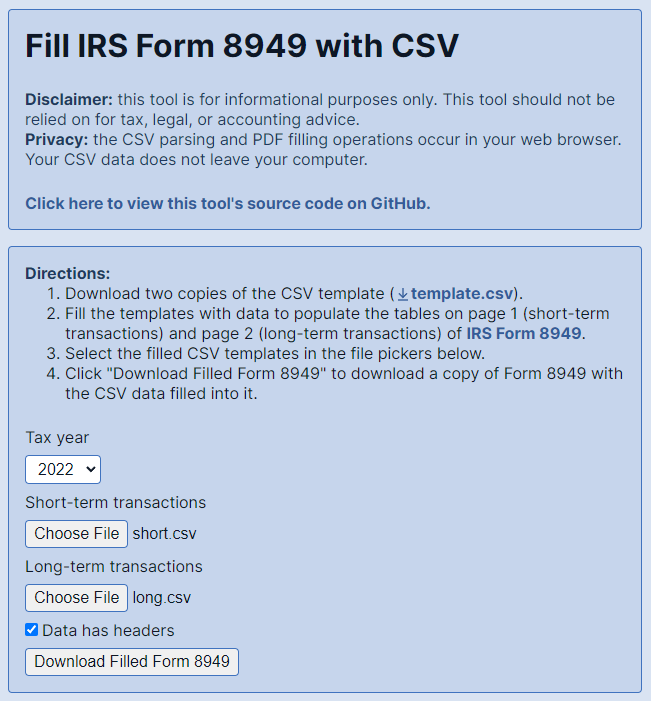
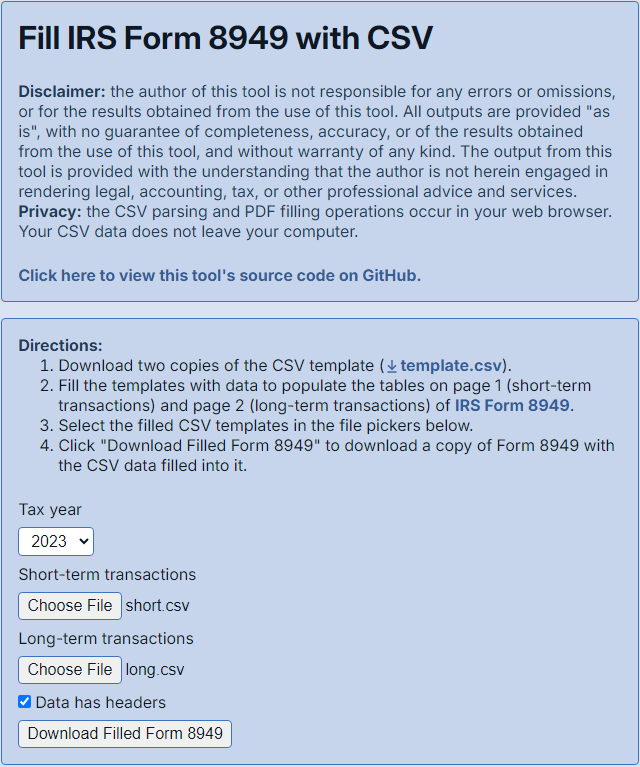
Update disclaimer

Changed region(s): [[0.0, 0.0, 1.0, 1.0], [0.9688, 0.2996, 1.0, 0.3295], [0.9688, 0.0, 1.0, 0.03]]

diff --git a/index.html b/index.html
@@ -180,7 +180,7 @@
 <body>
   <section class="info card">
     <h1>Fill IRS Form 8949 with CSV</h1>
-    <p class="disclaimer"><b>Disclaimer:</b> this tool is for informational purposes only. This tool should not be relied on for tax, legal, or accounting advice.</p>
+    <p class="disclaimer"><b>Disclaimer:</b> the author of this tool is not responsible for any errors or omissions, or for the results obtained from the use of this tool. All outputs are provided "as is", with no guarantee of completeness, accuracy, or of the results obtained from the use of this tool, and without warranty of any kind. The output from this tool is provided with the understanding that the author is not herein engaged in rendering legal, accounting, tax, or other professional advice and services.</p>
     <p class="privacy"><b>Privacy:</b> the CSV parsing and PDF filling operations occur in your web browser. Your CSV data does not leave your computer.</p>
     <p class="source"><a href="https://github.com/ardislu/fill-8949-with-csv">Click here to view this tool's source code on GitHub.</a></p>
   </section>

diff --git a/README.md b/README.md
@@ -1,7 +1,7 @@
 # fill-8949-with-csv
 
 > [!IMPORTANT]<br>
-> This tool is for informational purposes only. This tool should not be relied on for tax, legal, or accounting advice.
+> The author of this tool is not responsible for any errors or omissions, or for the results obtained from the use of this tool. All outputs are provided "as is", with no guarantee of completeness, accuracy, or of the results obtained from the use of this tool, and without warranty of any kind. The output from this tool is provided with the understanding that the author is not herein engaged in rendering legal, accounting, tax, or other professional advice and services.
 
 Web app that fills [IRS Form 8949](https://www.irs.gov/form8949) with data from a CSV file.
 
